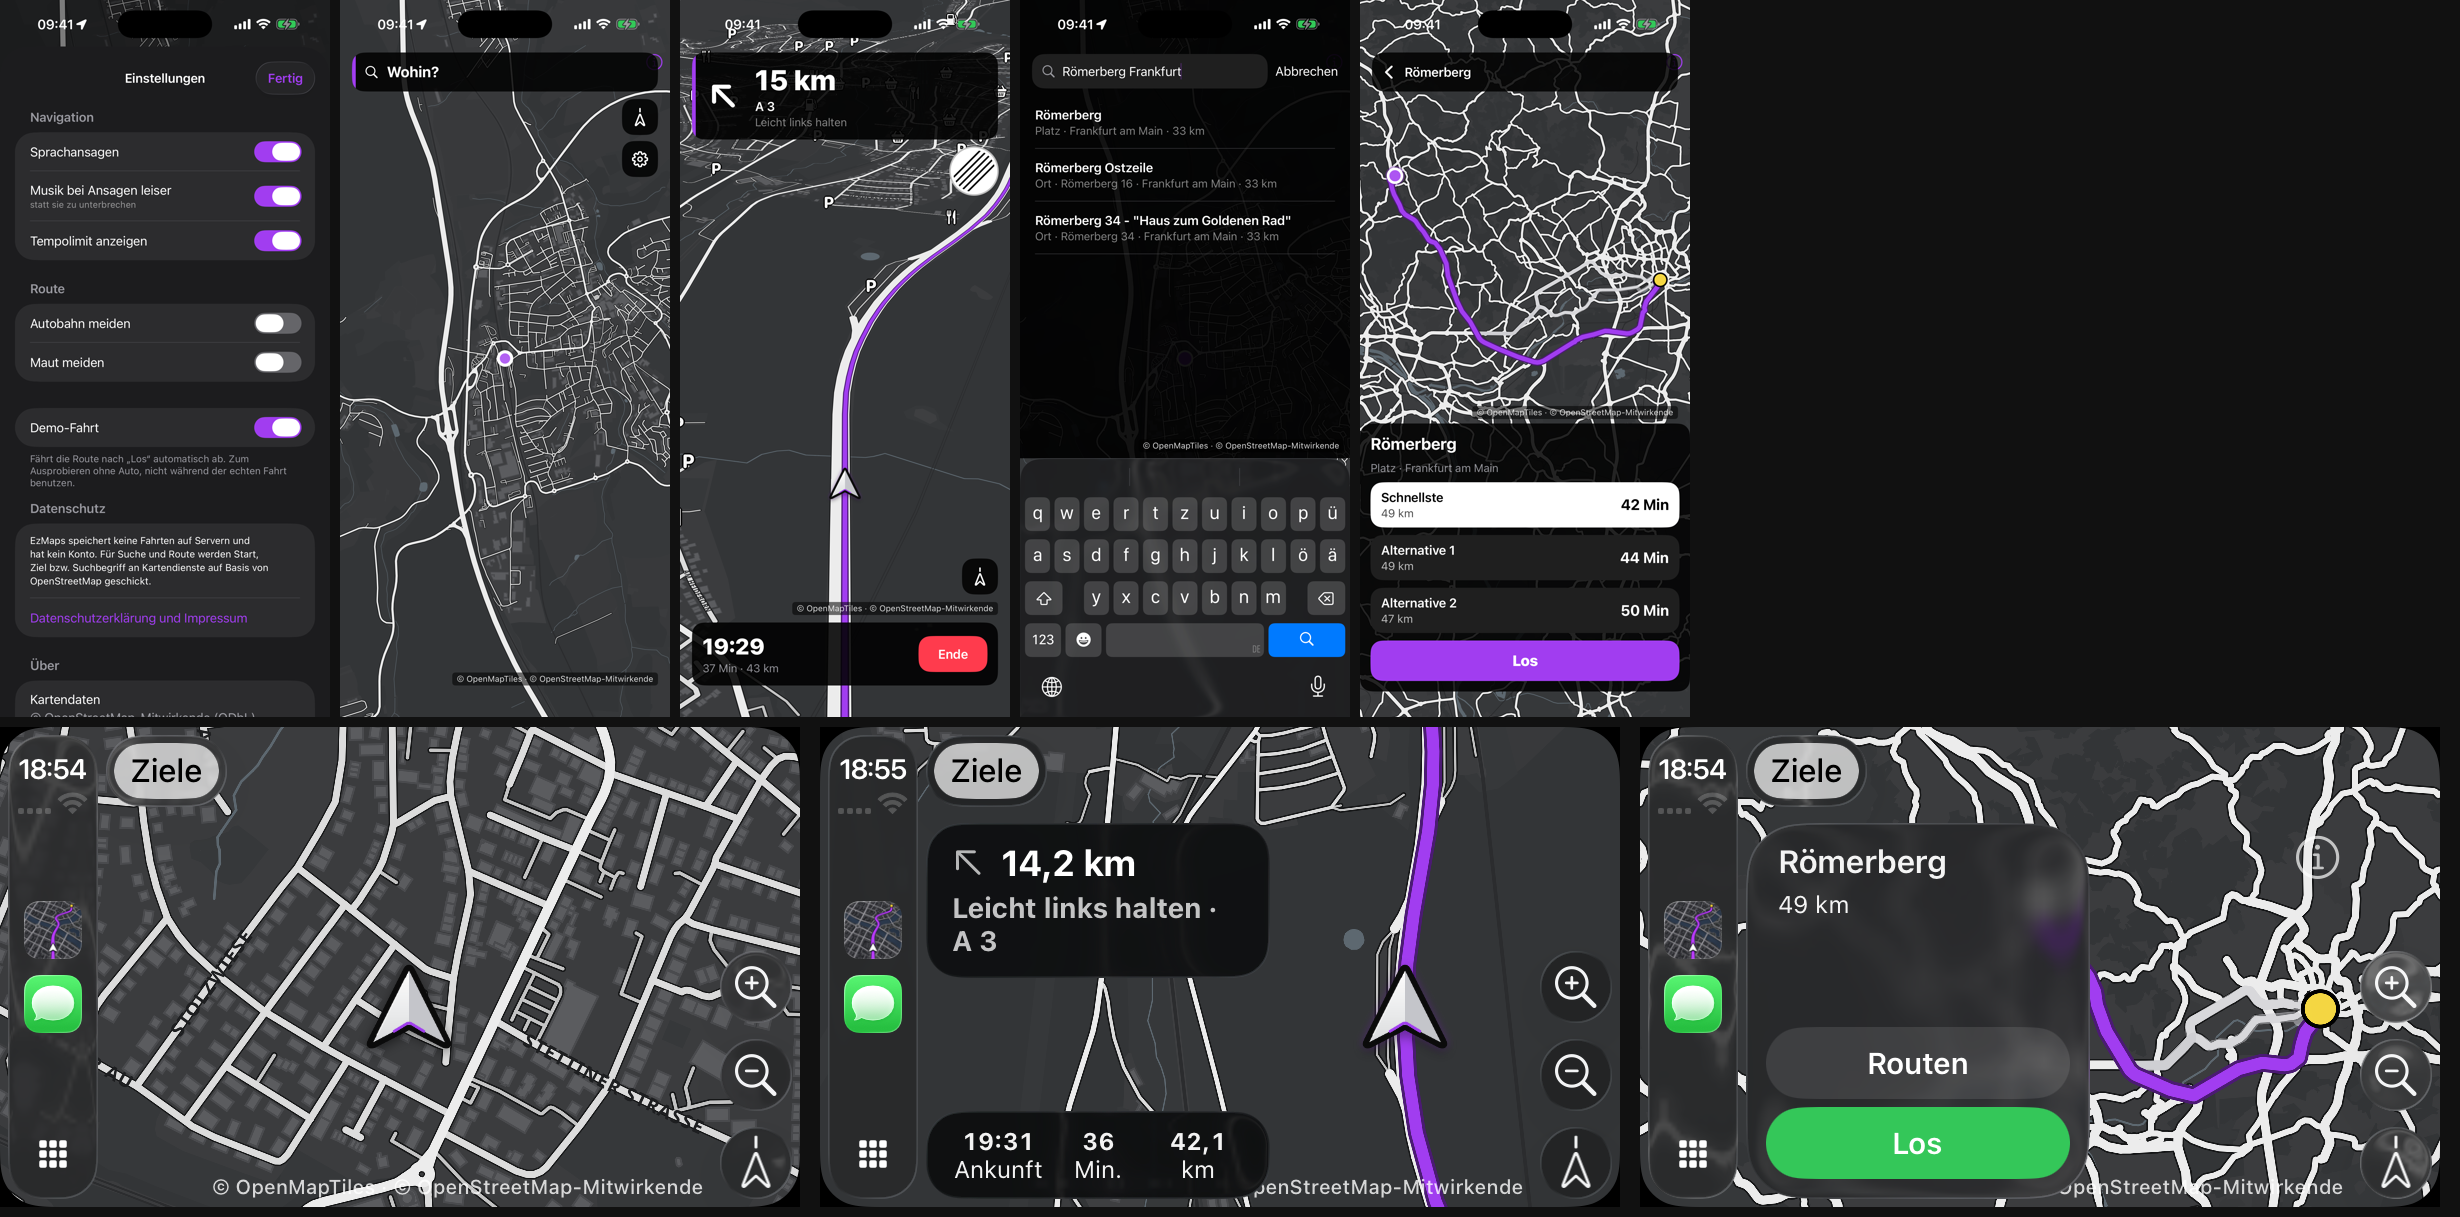
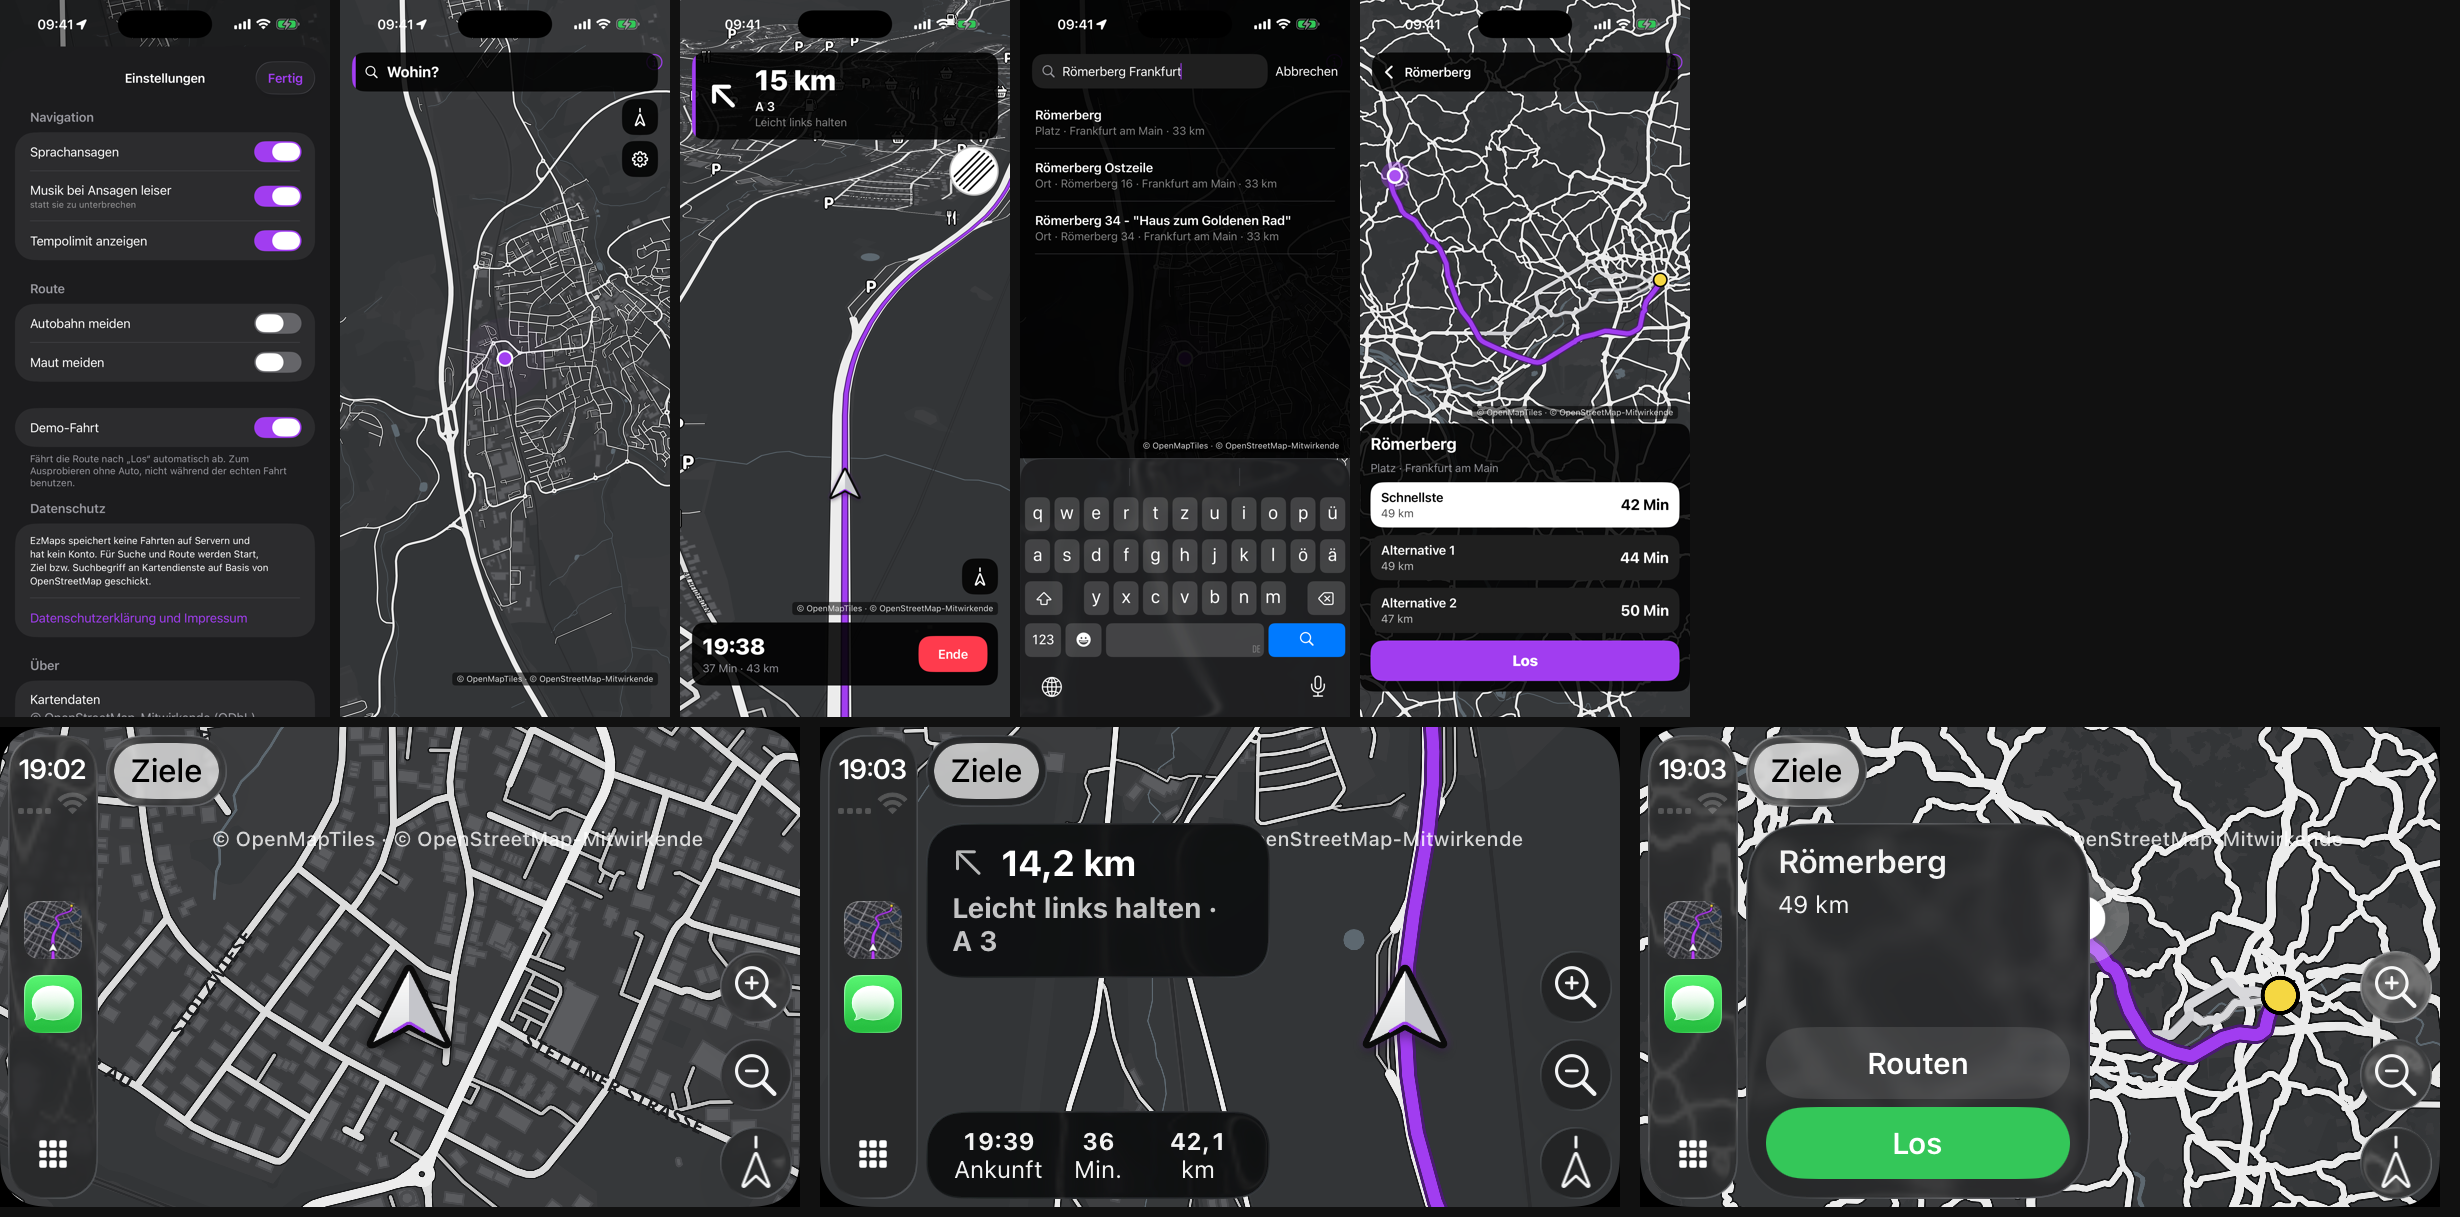
GM-027: CarPlay – OSM-Hinweis zweizeilig, Vorschau weiter rechts

diff --git a/App/CarPlaySceneDelegate.swift b/App/CarPlaySceneDelegate.swift
@@ -283,7 +283,10 @@ final class CarMapViewController: UIViewController, MLNMapViewDelegate {
         overlay = RouteOverlay(map: map)
 
         let label = UILabel()
-        label.text = L("© OpenMapTiles · © OpenStreetMap-Mitwirkende")
+        label.text = "© OpenMapTiles
+" + L("© OpenStreetMap-Mitwirkende") // GM-027: zweizeilig, schmal genug für die Ecke
+        label.numberOfLines = 2
+        label.textAlignment = .right
         label.font = .systemFont(ofSize: 10, weight: .medium)
         label.textColor = UIColor.white.withAlphaComponent(0.8)
         label.translatesAutoresizingMaskIntoConstraints = false
@@ -329,7 +332,7 @@ final class CarMapViewController: UIViewController, MLNMapViewDelegate {
             if isNew && !navigating && !routes.isEmpty {
                 // GM-027: Routen-Vorschau von iOS belegt links knapp die halbe Breite – Strecke rechts davon einpassen
                 let safe = view.safeAreaInsets
-                let left: CGFloat = safe.left + view.bounds.width * 0.5 + 20
+                let left: CGFloat = safe.left + view.bounds.width * 0.58 + 30
                 overlay?.fit(routes: routes, padding: UIEdgeInsets(top: safe.top + 50, left: left, bottom: safe.bottom + 30, right: safe.right + 80))
             }
         }
